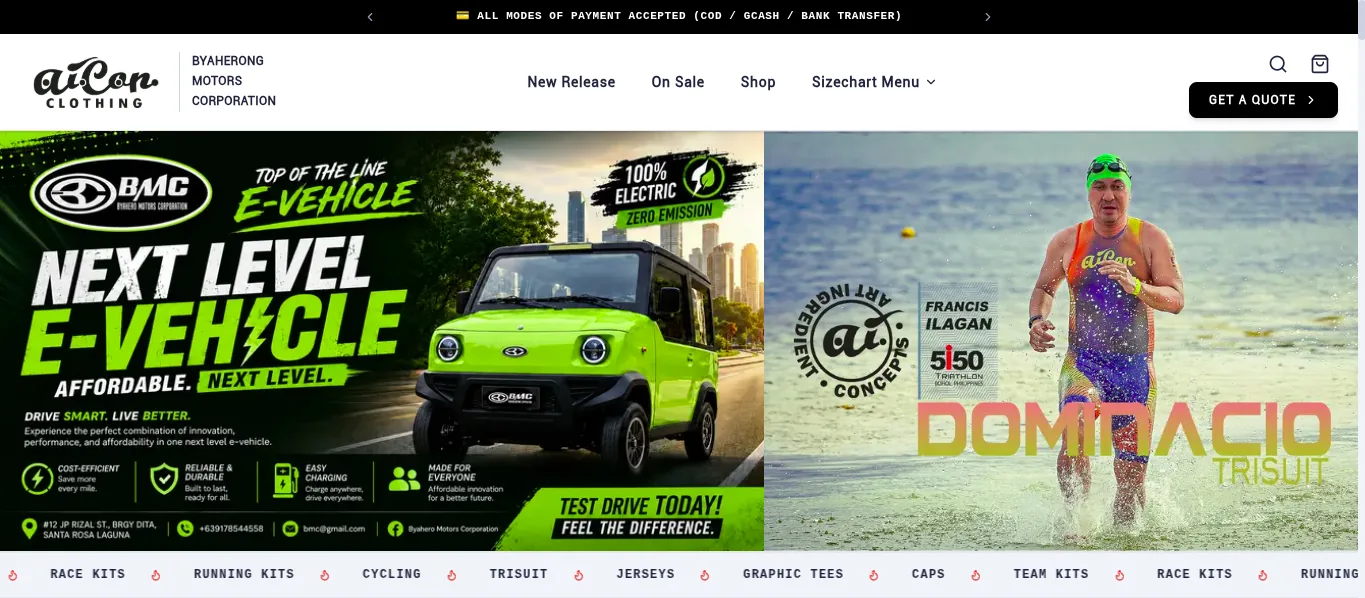
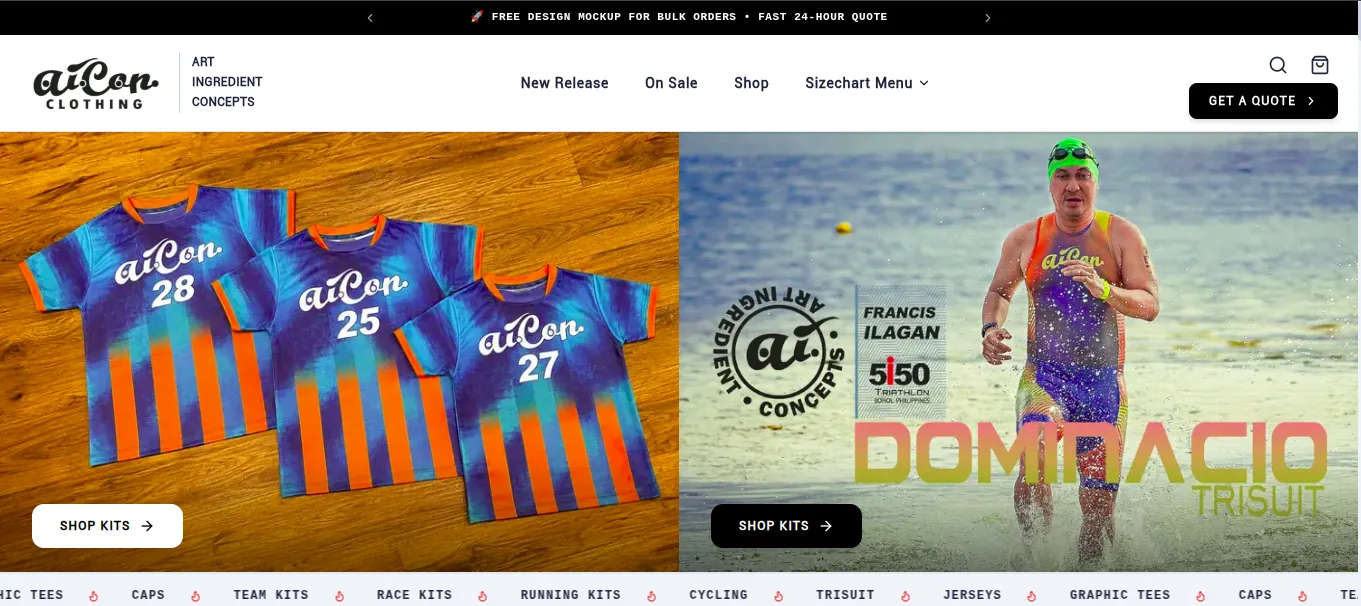
Add Byahero Motors E-Vehicle and refresh AiCon Clothing
Add Byahero Motors E-Vehicle (byahero.org) to Selected Works as a
Frontend / UI entry — a Next.js EV campaign site with a device-local
test-drive booking form for offline booth use.

Point AiCon Clothing at its new domain (artingredientconcepts.com,
was ai-bmc.southdream.net) and replace its card image with a capture
of the current storefront.

Both screenshots converted to WebP (Byahero 65 KB, AiCon 122 KB).

Claude-Session: https://claude.ai/code/session_01V1uABXz19jfkWiSHnFB1aX

diff --git a/app/data/projects.ts b/app/data/projects.ts
@@ -13,11 +13,27 @@ export interface Project {
 
 export const projects: Project[] = [
     {
+        title: "Byahero Motors E-Vehicle",
+        description: "A campaign and test-drive booking site for Byahero Motors Corporation's affordable electric vehicle, pairing a benefit-led product story with showroom directions and an on-the-spot slot reservation flow.",
+        image: "/ByaheroMotors.webp",
+        badges: ["Next.js", "React", "Tailwind CSS", "Landing Page", "Lead Capture", "Responsive Design"],
+        link: "https://www.byahero.org/",
+        impact: "Gave an EV launch campaign one destination for the product pitch, showroom location, and test-drive sign-ups, letting booth staff capture interested walk-ins without paper lists.",
+        category: "Frontend / UI",
+        problem: "A new electric vehicle brand had to explain an unfamiliar product, prove the running-cost savings, and convert showroom and event interest into scheduled test drives, but the pitch lived in printed flyers and scattered Messenger replies.",
+        solution: "Built a Next.js campaign site with a benefit-driven feature grid, cost and emissions stats, gallery, and an embedded showroom map, closing on a test-drive form that keeps submissions on the device so booth staff can take bookings even on unreliable venue connections.",
+        contributions: [
+            "Designed the high-contrast electric brand system in Tailwind with custom ink, bone, and volt color tokens.",
+            "Built the test-drive reservation form with required-field validation and on-device persistence for offline booth use.",
+            "Wired the Visit Us section with an embedded map, 2D/3D toggle, and direct call, message, and get-directions actions."
+        ]
+    },
+    {
         title: "AiCon Clothing",
         description: "A custom performance apparel storefront for AiCon Clothing under Byaherong Motors Corporation, covering cycling, running, and triathlon kits with size chart guidance and quote requests for team orders.",
         image: "/AiconClothing.webp",
         badges: ["Next.js", "React", "Tailwind CSS", "Supabase", "Headless CMS", "E-commerce"],
-        link: "https://ai-bmc.southdream.net/",
+        link: "https://www.artingredientconcepts.com/",
         impact: "Gave a sublimation apparel manufacturer one storefront for its full catalog, sizing references, and custom-order quotes, replacing inquiries scattered across social media threads.",
         category: "Full-Stack",
         problem: "Custom sublimation apparel makers sell mostly through Facebook and Messenger threads, where catalogs, size charts, and pricing requests get buried and bulk team orders are difficult to spec or track.",
